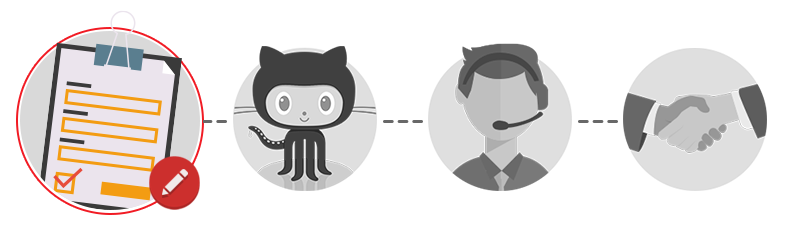
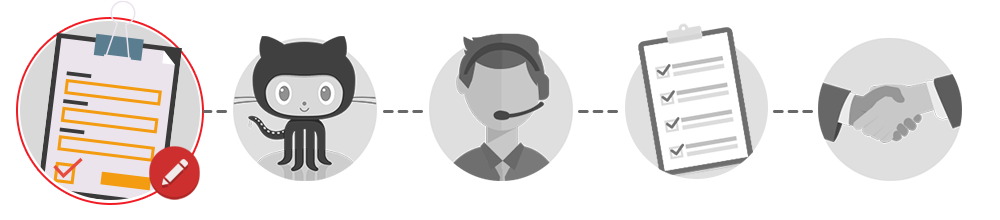
Novas imagens para o passo a passo de integração

diff --git a/informacoes-fundamentais/index.html b/informacoes-fundamentais/index.html
@@ -19,7 +19,7 @@
         <table cellspacing="0" cellpadding="0" border="0" width="600" style="max-width:600px!important; min-width:600px!important; margin:0px auto; font-size:11px;">
             <tr>
                 <td style="text-align: left; "><strong>Informações Fundamentais · EZTech</strong></td>
-                <td style="text-align: right;"><a href="http://eztech.ind.br/email/integracao/informacoes-fundamentais" target="_blank" style="color:#333; ">Visualizar no navegador</a>.</td>
+                <!-- <td style="text-align: right;"><a href="http://eztech.ind.br/email/integracao/informacoes-fundamentais" target="_blank" style="color:#333; ">Visualizar no navegador</a>.</td> -->
             </tr>
 
             <tr>
@@ -61,7 +61,8 @@
 	<tr>
 		<td width="20%" style="padding-left:10px;">Dados<br>Cadastrais</td>
 		<td width="20%" style="font-weight: bold; color:#ed1c24">Informações<br>Fundamentais</td>
-		<td width="20%">Suporte na<br>Integração</td>
+        <td width="20%">Suporte na<br>Integração</td>
+        <td width="20%">Homologação</td>
 		<td width="20%" style="padding-right:10px;">Conclusão e<br>Satisfação</td>
 	</tr>
 </table>
@@ -78,8 +79,8 @@
 		<td>
 			<ol>
 				<li><a href="http://eztech.ind.br/download/Dotnet.zip" style="text-decoration: none; font-family: Open Sans;">Frameworks Microsoft .Net 3.5 e 2.0.</a></li>
-				<li><a href="http://eztech.ind.br/download/23b01/EZForecourtUSB23b01R.exe" style="text-decoration: none; font-family: Open Sans;">Software para simulação</a></li>
-        <li><a href="http://eztech.ind.br/download/23b01/EZForecourtPlus23b01R.exe" style="text-decoration: none; font-family: Open Sans;">Software para uso do concentrador</a></li>
+				<li><a href="http://eztech.ind.br/download/25b07/EZForecourtUSB25b07R.exe" style="text-decoration: none; font-family: Open Sans;">Software para simulação</a></li>
+        <li><a href="http://eztech.ind.br/download/25b07/EZForecourtPlus25b07R.exe" style="text-decoration: none; font-family: Open Sans;">Software para uso do concentrador</a></li>
         <li><a href="https://eztech.ind.br/wp-content/uploads/2018/08/Manual-Simulador.pdf"  style="text-decoration: none; font-family: Open Sans;">Manual de configuração do simulador</a></li>
 				<li><a href="https://eztech.ind.br/download/ManualDesenvolvimento.pdf"  style="text-decoration: none; font-family: Open Sans;">Manual de desenvolvimento</a></li>
 				<li><a href="https://github.com/EZTechBrasil/EZClientCSharp"  style="text-decoration: none; font-family: Open Sans;">API C#</a></li>
@@ -102,8 +103,8 @@
 <table cellspacing="0" cellpadding="0" border="0" width="600" style="padding:20px; max-width:600px!important; min-width:600px!important;">
 	 <tr>
 		<td style="font-size:13px; color:#333;">
-			<p>Caso você tenha algum problema em fazer o download dos arquivos no email, nós organizamos esses documentos, manuais, recursos e programas de exemplos em nosso site.</p>
-			<a href="https://eztech.ind.br/integracao/" style="border-radius:100px !important; border: 2px solid #ed1c24!important; color:#ed1c24!important; margin-top:10px!important; font-size:16px!important; text-transform: uppercase!important; font-weight: bold!important; text-align:center!important; padding:8px 20px 10px 15px!important; text-decoration:none!important; display:inline-block!important;"><img src="https://github.com/EZTechBrasil/Integracao/raw/master/assets/img/icon-arrow-right.png" style="display:inline-block; margin-right:10px;">Saiba Mais</a>
+			<p>Caso você tenha algum problema em fazer o download dos arquivos no e-mail, você pode enviar um e-mail para o nosso comercial e solicitar esses arquivos. É só clicar no botão "Saiba Mais" que está aqui em baixo.</p>
+			<a href="mailto:integracao@eztech.ind.br" style="border-radius:100px !important; border: 2px solid #ed1c24!important; color:#ed1c24!important; margin-top:10px!important; font-size:16px!important; text-transform: uppercase!important; font-weight: bold!important; text-align:center!important; padding:8px 20px 10px 15px!important; text-decoration:none!important; display:inline-block!important;"><img src="https://github.com/EZTechBrasil/Integracao/raw/master/assets/img/icon-arrow-right.png" style="display:inline-block; margin-right:10px;">Saiba Mais</a>
 		</td>
 		<td width="150" style="padding-left:60px; text-align: right;">
 			<img src="https://github.com/EZTechBrasil/Integracao/raw/master/assets/img/img-github.png" style="display:block;text-align: right;" width="150" height="167">
@@ -114,7 +115,7 @@
 <table cellspacing="0" cellpadding="0" border="0" width="600" style="padding:20px; max-width:600px!important; min-width:600px!important; text-align: left; font-size: 12px;">
 	 <tr>
 		<td style="font-size:13px; color:#333;">
-			<p>No final você receberá uma planilha de testes de integração, você deverá executar os testes, preencher a planilha e enviar para <strong>integracao@eztech.ind.br</strong> para que possamos emitir o <strong>Certificado de Integração</strong>, que você poderá imprimir e colocar em sua sala de reuniões.</p>
+			<p>Na próxima etapa você receberá uma planilha para homologar sua integração.</p>
 		</td>
 	</tr>
 </table>
@@ -132,13 +133,6 @@
                             <td width="230" style="font-size:10px; color:#999; ">
                                 <p style="margin:0px 0px 5px;"><strong style="color:#FFF; font-size: 13px;">Rio de Janeiro - RJ</strong></p>
                                 <p style="margin:0px">Praia do Flamengo, 66, Bloco B, 908/909/910<br>Flamengo, Rio de Janeiro, RJ - 22210-903</p>
-                            </td>
-                            <td width="50">
-                                <img src="https://github.com/EZTechBrasil/Integracao/raw/master/assets/img/footer-img-address.png" style="display:block;text-align: right;" width="40" height="40">
-                            </td>
-                            <td width="230" style="font-size:10px; color:#999;">
-                                <p style="margin:0px 0px 5px;"><strong style="color:#FFF; font-size: 13px;">São Paulo - SP</strong></p>
-                                <p style="margin:0px">Praça da Liberdade, 118 - Cj. 54<br>Liberdade, São Paulo, SP - 01503-010</p>
                             </td>
                         </tr>
 
@@ -167,7 +161,7 @@
                     <table cellspacing="0" cellpadding="0" border="0" width="560" style="max-width:560px!important; min-width:560px!important;">
                          <tr>
                             <td style="font-size:12px; color:#999;">
-                                <p style="margin:0px;">© <a style="color:#FFF" href="http://eztech.ind.br" target="_blank"><b>EZTech</b></a> · 2018 · Todos os direitos reservados.</p>
+                                <p style="margin:0px;">© <a style="color:#FFF" href="http://eztech.ind.br" target="_blank"><b>EZTech</b></a> · 2019 · Todos os direitos reservados.</p>
                             </td>
 
 

diff --git a/suporte-na-integracao/index.html b/suporte-na-integracao/index.html
@@ -45,7 +45,7 @@
 				Prezado parceiro,
 				<br>
 				<br>
-				Agora que você já montou o ambiente de testes, estamos aqui para ajudá-lo no processo de testes e para atingirmos nosso objetivo de integração com qualidade, você precisa efetuar a homologação do seu sistema. Para lhe auxiliar nesse processo, nós montamos uma planilha de testes que você pode efetuar o download abaixo. Aguardamos o resultado da homologação.
+                Agora que você já tem tudo que precisa para integrar com nossos sistemas, estamos aqui para ajudar.
 			</p>
 		</td>
 	</tr>
@@ -62,7 +62,8 @@
 	<tr>
 		<td width="20%" style="padding-left:10px;">Dados<br>Cadastrais</td>
 		<td width="20%">Informações<br>Fundamentais</td>
-		<td width="20%" style="font-weight: bold; color:#ed1c24">Suporte na<br>Integração</td>
+        <td width="20%" style="font-weight: bold; color:#ed1c24">Suporte na<br>Integração</td>
+        <td width="20%">Homologação</td>
 		<td width="20%" style="padding-right:10px;">Conclusão e<br>Satisfação</td>
 	</tr>
 </table>
@@ -73,10 +74,10 @@
 <table height="auto" cellspacing="0" cellpadding="0" border="0" width="600" style="padding:20px; max-width:600px!important; min-width:600px!important;">
 	 <tr>
 		<td width="350" style="font-size:13px; color:#333;">
-			<p>Durante o processo de integração, se precisar, entre em contato pelo telefone abaixo, um dos nossos especialistas desenvolvedores prontamente irá lhe ajudar.</p>
+			<p>Durante o processo de integração, se precisar, entre em contato pelo telefone abaixo ou pelo e-mail, um dos nossos especialistas desenvolvedores prontamente irá lhe ajudar.</p>
 
-			<p>Após a integração, você deverá efetuar os testes de homologação. Abaixo disponibilizamos o link para a planilha. Execute os testes, insira os resultados obtidos e envie a planilha para o seguinte endereço: <a href="mailto:integracao@eztech.ind.br">integracao@eztech.ind.br</a>.</p>
-			<a href="https://github.com/EZTechBrasil/Integracao/raw/master/downloads/HomologacaoDeIntegracaoV1_6.xlsx" style="border-radius:100px; border: 2px solid #ed1c24; color:#ed1c24; margin-top:10px; font-size:16px; text-transform: uppercase; font-weight: bold; text-align:center; padding:8px 20px 10px 15px; text-decoration:none; display:inline-block;"><img src="https://github.com/EZTechBrasil/Integracao/raw/master/assets/img/icon-arrow-right.png" style="display:inline-block; margin-right:10px;">Planilha de Homologação</a>
+			<p>Após a integração, você deverá efetuar os testes de homologação. O próximo passo vai te auxiliar com esse processo.</p>  
+			<!-- <a href="https://github.com/EZTechBrasil/Integracao/raw/master/downloads/HomologacaoDeIntegracaoV1_6.xlsx" style="border-radius:100px; border: 2px solid #ed1c24; color:#ed1c24; margin-top:10px; font-size:16px; text-transform: uppercase; font-weight: bold; text-align:center; padding:8px 20px 10px 15px; text-decoration:none; display:inline-block;"><img src="https://github.com/EZTechBrasil/Integracao/raw/master/assets/img/icon-arrow-right.png" style="display:inline-block; margin-right:10px;">Planilha de Homologação</a> -->
 
 		</td>
 		<td width="150" style="padding-left:60px; text-align: right;">
@@ -98,13 +99,6 @@
                             <td width="230" style="font-size:10px; color:#999; ">
                                 <p style="margin:0px 0px 5px;"><strong style="color:#FFF; font-size: 13px;">Rio de Janeiro - RJ</strong></p>
                                 <p style="margin:0px">Praia do Flamengo, 66, Bloco B, 908/909/910<br>Flamengo, Rio de Janeiro, RJ - 22210-903</p>
-                            </td>
-                            <td width="50">
-                                <img src="https://github.com/EZTechBrasil/Integracao/raw/master/assets/img/footer-img-address.png" style="display:block;text-align: right;" width="40" height="40">
-                            </td>
-                            <td width="230" style="font-size:10px; color:#999;">
-                                <p style="margin:0px 0px 5px;"><strong style="color:#FFF; font-size: 13px;">São Paulo - SP</strong></p>
-                                <p style="margin:0px">Praça da Liberdade, 118 - Cj. 54<br>Liberdade, São Paulo, SP - 01503-010</p>
                             </td>
                         </tr>
 
@@ -133,7 +127,7 @@
                     <table cellspacing="0" cellpadding="0" border="0" width="560" style="max-width:560px!important; min-width:560px!important;">
                          <tr>
                             <td style="font-size:12px; color:#999;">
-                                <p style="margin:0px;">© <a style="color:#FFF" href="http://eztech.ind.br" target="_blank"><b>EZTech</b></a> · 2018 · Todos os direitos reservados.</p>
+                                <p style="margin:0px;">© <a style="color:#FFF" href="http://eztech.ind.br" target="_blank"><b>EZTech</b></a> · 2019 · Todos os direitos reservados.</p>
                             </td>
 
 

diff --git a/seja-bem-vindo/index.html b/seja-bem-vindo/index.html
@@ -46,7 +46,7 @@
 			<br>
 			Agradecemos muito pelo seu contato para integração com nossos equipamentos, estamos a sua disposição para ajudá-lo em suas necessidades, temos certeza de que corresponderemos a parceria e desenvolveremos um ótimo trabalho em conjunto.</p>
 
-			<p style="font-size:15px">Nosso processo de integração é composto por <strong>4 Etapas</strong>, como ilustrado abaixo.</p>
+			<p style="font-size:15px">Nosso processo de integração é composto por <strong>5 Etapas</strong>, como ilustrado abaixo.</p>
 		</td>
 	</tr>
 </table>
@@ -62,7 +62,8 @@
 	<tr>
 		<td width="20%" style="padding-left:10px; font-weight: bold; color:#ed1c24">Dados<br>Cadastrais</td>
 		<td width="20%">Informações<br>Fundamentais</td>
-		<td width="20%">Suporte na<br>Integração</td>
+        <td width="20%">Suporte na<br>Integração</td>
+        <td width="20%">Homologação</td>
 		<td width="20%" style="padding-right:10px;">Conclusão e<br>Satisfação</td>
 	</tr>
 </table>
@@ -98,13 +99,6 @@
                                 <p style="margin:0px 0px 5px;"><strong style="color:#FFF; font-size: 13px;">Rio de Janeiro - RJ</strong></p>
                                 <p style="margin:0px">Praia do Flamengo, 66, Bloco B, 908/909/910<br>Flamengo, Rio de Janeiro, RJ - 22210-903</p>
                             </td>
-                            <td width="50">
-                                <img src="https://github.com/EZTechBrasil/Integracao/raw/master/assets/img/footer-img-address.png" style="display:block;text-align: right;" width="40" height="40">
-                            </td>
-                            <td width="230" style="font-size:10px; color:#999;">
-                                <p style="margin:0px 0px 5px;"><strong style="color:#FFF; font-size: 13px;">São Paulo - SP</strong></p>
-                                <p style="margin:0px">Praça da Liberdade, 118 - Cj. 54<br>Liberdade, São Paulo, SP - 01503-010</p>
-                            </td>
                         </tr>
 
                         <tr><td colspan="4" style="height: 20px;"></td></tr>
@@ -132,7 +126,7 @@
                     <table cellspacing="0" cellpadding="0" border="0" width="560" style="max-width:560px!important; min-width:560px!important;">
                          <tr>
                             <td style="font-size:12px; color:#999;">
-                                <p style="margin:0px;">© <a style="color:#FFF" href="http://eztech.ind.br" target="_blank"><b>EZTech</b></a> · 2018 · Todos os direitos reservados.</p>
+                                <p style="margin:0px;">© <a style="color:#FFF" href="http://eztech.ind.br" target="_blank"><b>EZTech</b></a> · 2019 · Todos os direitos reservados.</p>
                             </td>
 
 
@@ -152,7 +146,7 @@
             </tr>
         </table>
     </div>
-</center>
+    </center>
 	<br>
 	<br>
 

diff --git a/conclusao/index.html b/conclusao/index.html
@@ -19,7 +19,6 @@
         <table cellspacing="0" cellpadding="0" border="0" width="600" style="max-width:600px!important; min-width:600px!important; margin:0px auto; font-size:11px;">
             <tr>
                 <td style="text-align: left; "><strong>Conclusão e Satisfação · EZTech</strong></td>
-                <td style="text-align: right;"><a href="http://eztech.ind.br/email/integracao/conclusao" target="_blank" style="color:#333; ">Visualizar no navegador</a>.</td>
             </tr>
 
             <tr>
@@ -62,8 +61,8 @@
 	<tr>
 		<td width="20%" style="padding-left:10px;">Dados<br>Cadastrais</td>
 		<td width="20%">Informações<br>Fundamentais</td>
-		<td width="20%">Kit de<br>Integração</td>
-		<td width="20%">Suporte na<br>Integração</td>
+        <td width="20%">Suporte na<br>Integração</td>
+        <td width="20%">Homologação</td>
 		<td width="20%" style="padding-right:10px; font-weight: bold; color:#ed1c24;">Conclusão e<br>Satisfação</td>
 	</tr>
 </table>
@@ -96,13 +95,6 @@
                                 <p style="margin:0px 0px 5px;"><strong style="color:#FFF; font-size: 13px;">Rio de Janeiro - RJ</strong></p>
                                 <p style="margin:0px">Praia do Flamengo, 66, Bloco B, 908/909/910<br>Flamengo, Rio de Janeiro, RJ - 22210-903</p>
                             </td>
-                            <td width="50">
-                                <img src="https://github.com/EZTechBrasil/Integracao/raw/master/assets/img/footer-img-address.png" style="display:block;text-align: right;" width="40" height="40">
-                            </td>
-                            <td width="230" style="font-size:10px; color:#999;">
-                                <p style="margin:0px 0px 5px;"><strong style="color:#FFF; font-size: 13px;">São Paulo - SP</strong></p>
-                                <p style="margin:0px">Praça da Liberdade, 118 - Cj. 54<br>Liberdade, São Paulo, SP - 01503-010</p>
-                            </td>
                         </tr>
 
                         <tr><td colspan="4" style="height: 20px;"></td></tr>
@@ -130,7 +122,7 @@
                     <table cellspacing="0" cellpadding="0" border="0" width="560" style="max-width:560px!important; min-width:560px!important;">
                          <tr>
                             <td style="font-size:12px; color:#999;">
-                                <p style="margin:0px;">© <a style="color:#FFF" href="http://eztech.ind.br" target="_blank"><b>EZTech</b></a> · 2018 · Todos os direitos reservados.</p>
+                                <p style="margin:0px;">© <a style="color:#FFF" href="http://eztech.ind.br" target="_blank"><b>EZTech</b></a> · 2019 · Todos os direitos reservados.</p>
                             </td>
 
 
